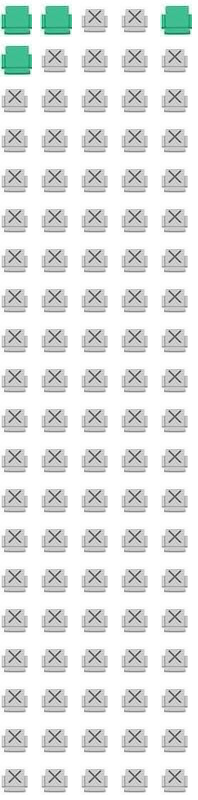
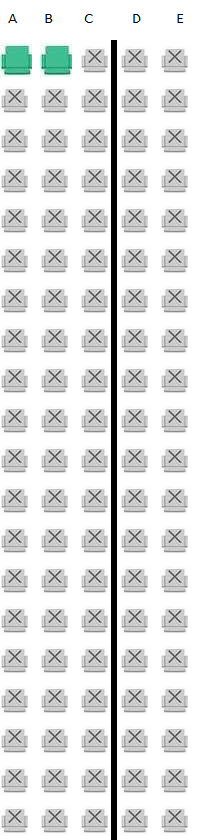
Improved the the interface

diff --git a/booking.java b/booking.java
@@ -62,13 +62,22 @@ public class booking extends name{
         }
     }
 
+    static void welcomeStart(){
+        System.out.println("+=====================================+");
+        System.out.println("| Welcome to the DD AIRLINES PVT LTD. |");
+        System.out.println("+=====================================+");
+    }
+
     public static void main(String[] args) throws IOException{
         Scanner in=new Scanner(System.in);
         booking ob1=new booking();
+        welcomeStart();
+        System.out.println("Enter the destination for the airplane..");
+        String destination = in.nextLine();
         int pos=0;
         while(true){
             
-            System.out.println("Enter (y) to book ticket and (n) to quit");
+            System.out.println("Enter [y] to book ticket and [n] to quit");
             char cae=in.next().charAt(0);
             switch(cae){
                 case 'y':
@@ -89,7 +98,7 @@ public class booking extends name{
                             side="Aisle seat";
                         }
                         name ob=new name();
-                        ob.accept();
+                        ob.accept(destination);
                         ob.t=timer();
                         ob.dis();
                         System.out.println("Seat no.: "+fr);
@@ -101,7 +110,7 @@ public class booking extends name{
                         String fr=ob1.book(m);
                         String side="Aisle seat";
                         name ob=new name();
-                        ob.accept();
+                        ob.accept(destination);
                         ob.t=timer();
                         ob.dis();
                         System.out.println("Seat no.: "+fr);
@@ -110,12 +119,13 @@ public class booking extends name{
                         A[i][j]=x;
                     }
                     break;
-                case 'n':
+                    case 'n':
                     ob1.display();
                     ob1.csv();
                     ob1.details();
                     ob1.dat();
                     ob1.message();
+                    in.close();
                     break;
                 default: System.out.println("wrong input decided");
             }

diff --git a/name.java b/name.java
@@ -26,21 +26,30 @@ public class name {
         return (dt.format(df));
     }
 
-    public void accept()throws IOException{
-        System.out.println("enter your name, gender,age, phone number and distination");
+    public void accept(String d)throws IOException{
+        System.out.println("\n+--------------------+");
+        System.out.println("| Enter your details |");
+        System.out.println("+--------------------+");
+        System.out.println("\nYour Name..");
         name = in.readLine();
+        System.out.println("\nYour Gender..");
         g = in.readLine();
+        System.out.println("\nYour Age..");
         age = Integer.parseInt(in.readLine());
+        System.out.println("\nYour Phone number..");
         no = Long.parseLong(in.readLine());
-        dis = in.readLine();
+        dis = d;
     }
 
     public void dis(){
-        System.out.println("Name: "+name);
-        System.out.println("Age: "+age);
-        System.out.println("Gender: "+g);
-        System.out.println("Phone number: "+no);
-        System.out.println("Distination: "+dis);
-        System.out.println("Time: "+t);
+        System.out.println("\n\t=============");
+        System.out.println("\t~~ SUMMARY ~~");
+        System.out.println("\tName: "+name);
+        System.out.println("\tAge: "+age);
+        System.out.println("\tGender: "+g);
+        System.out.println("\tPhone number: "+no);
+        System.out.println("\tDistination: "+dis);
+        System.out.println("\tTime: "+t);
+        System.out.println("\t=============\n");
     }
 }

diff --git a/new.py b/new.py
@@ -3,7 +3,7 @@ from PIL import Image
 
 img = Image.open("Untitled.png")
 
-m=int(-1)
+m=int(0)
 n=int(-1)
 
 mxy=int(0)
@@ -18,6 +18,11 @@ with open("data.txt") as f:
 
         for i in arr:
             n+=1
+
+            if n == 3:
+                img3=Image.open("walk_area.png")
+                img.paste(img3,(n*37, mxy))
+
             nxy=n*40
             if i == '1':
                 img2 = Image.open("full seat.jpg")

diff --git a/README.md b/README.md
@@ -18,3 +18,12 @@ for the txt file visual
 
 ## new.py (using data.txt)
 creates the image of the seat arrangement(seat arrangement.png)
+
+to run it in 
+
+in CMD
+```bat
+javac booking.java && java booking && python new.py
+```
+
+then open the file "seat arrangement.png"
